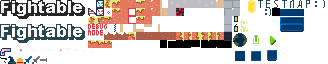
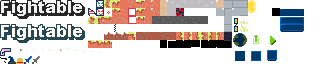
light sources

diff --git a/src/client/block/id.c b/src/client/block/id.c
@@ -2,7 +2,7 @@
 
 #define TSET(x,y,n) .base.tile_x = x, .base.tile_y = y, .name = #n
 
-static struct fblock __blocks[] = {
+static const struct fblock __blocks[] = {
     {.base.tile_x = 40, .base.tile_y = 7, .name = "Air", .passable = 1},    // 0
     {.base.tile_x = 13, .base.tile_y = 0, .name = "Grass"},                 // 1
     {.base.tile_x = 14, .base.tile_y = 0, .name = "Grass", .metaobject=1},  // 2
@@ -31,9 +31,9 @@ static struct fblock __blocks[] = {
     {.base.tile_x = 19, .base.tile_y = 1, .name = "Dirt", .parent_id=22},   // 25
     {.base.tile_x = 14, .base.tile_y = 2, .name = "Dirt", .parent_id=19},   // 26
     {.base.tile_x = 18, .base.tile_y = 2, .name = "Dirt", .parent_id=22},   // 27
-    {.base.tile_x = 13, .base.tile_y = 4, .name = "Dirt", .metaobject=1},   // 28
-    {.base.tile_x = 14, .base.tile_y = 4, .name = "Dirt", .parent_id=28},   // 29
-    {.base.tile_x = 15, .base.tile_y = 4, .name = "Dirt", .parent_id=28},   // 30
+    {.base.tile_x = 13, .base.tile_y = 4, .name = "Dirt", .metaobject=1, .passable = 1},   // 28
+    {.base.tile_x = 14, .base.tile_y = 4, .name = "Dirt", .parent_id=28, .passable = 1},   // 29
+    {.base.tile_x = 15, .base.tile_y = 4, .name = "Dirt", .parent_id=28, .passable = 1},   // 30
     {.base.tile_x = 17, .base.tile_y = 4, .name = "Dirt", .metaobject=1},   // 31
     {.base.tile_x = 18, .base.tile_y = 4, .name = "Dirt", .parent_id=31},   // 32
     {.base.tile_x = 19, .base.tile_y = 4, .name = "Dirt", .parent_id=31},   // 33
@@ -50,7 +50,31 @@ static struct fblock __blocks[] = {
     {TSET(24, 0,Stone), .parent_id = 40},       // 44
     {TSET(25, 0,Stone), .parent_id = 40},       // 45
     {TSET(26, 0,Stone), .parent_id = 40},       // 46
-    {TSET(22, 1,Magma), .dangerous = 1}         // 47
+    {TSET(22, 1,Magma), .dangerous = 1},        // 47
+    {TSET(25, 2,BStne), .metaobject = 1},       // 48
+    {TSET(19, 2,BStne), .parent_id = 48},       // 49
+    {TSET(20, 2,BStne), .parent_id = 48},       // 50
+    {TSET(21, 2,BStne), .parent_id = 48},       // 51
+    {TSET(22, 2,BStne), .parent_id = 48},       // 52
+    {TSET(23, 2,BStne), .parent_id = 48},       // 53
+    {TSET(24, 2,BStne), .parent_id = 48},       // 54
+    {TSET(20, 1,Planks)},                       // 55
+    {TSET(20, 0,Planks)},                       // 56
+    {TSET(27, 0,Planks)},                       // 57
+    {TSET(28, 2,Aspht)},                        // 58
+    {TSET(28, 0,Aspht)},                        // 59
+    {TSET(29, 0,Aspht)},                        // 60
+    {TSET(30, 0,Aspht)},                        // 61
+    {TSET(27, 1,Aspht)},                        // 62
+    {TSET(28, 1,Aspht)},                        // 63
+    {TSET(29, 1,Aspht)},                        // 64
+    {TSET(30, 1,Aspht)},                        // 65
+    {TSET(28, 3,Aspht)},                        // 66
+    {TSET(30, 3,Bush), .metaobject = 1},        // 67
+    {TSET(30, 2,Bush), .parent_id = 67},        // 68
+    {TSET(14, 3,Chain)},                        // 69
+    {TSET(29, 3,Lamp), .light_level = 127},     // 70
+    {TSET(29, 2,Lamp), .light_level = 127}      // 71
 };
 
 struct fblock _fBlockFromId(unsigned short id) {

diff --git a/src/client/level/draw.c b/src/client/level/draw.c
@@ -6,6 +6,7 @@
 #include <fightable/block.h>
 #include <fightable/entity.h>
 #include <fightable/color.h>
+#include <fightable/sanitizer.h>
 #include <stdio.h>
 #include <math.h>
 
@@ -178,6 +179,19 @@ void _fLevelDraw(struct flevel *level, IVector2 initial_pos) {
             col.a = (unsigned char)(255.f * (1.f / player->max_damage_colddown) * player->damage_colddown * 0.85f);
 
             DrawRectangleLines(_x, _y, tx, ty, col);
+        }
+        if (obj.light_level != 0) {
+            double sz = (sinl(__state.time * 1.05f) + 1.f) / 2.f;
+
+            Color col = WHITE;
+            col.a = obj.light_level;
+            
+            int cx = _x + (tx / 2);
+            int cy = _y + (ty / 2);
+
+            BeginBlendMode(BLEND_ADDITIVE);
+            DrawCircleGradient(cx, cy, sz * tx * 2, col, BLANK);
+            EndBlendMode();
         }
 
         level->objects_rendered++;

diff --git a/src/client/inc/fightable/block.h b/src/client/inc/fightable/block.h
@@ -11,15 +11,19 @@ extern "C" {
 
 struct fblock {
     struct frendered_object base;
-    const char *name;
 
-    unsigned short parent_id;
+    unsigned char light_level;
+
+    const char *name;
 
     unsigned char is_start_pos : 1;
     unsigned char singular : 1;
     unsigned char passable : 1;
     unsigned char metaobject : 1;
     unsigned char dangerous : 1;
+
+    unsigned short group_id;
+    unsigned short parent_id;
 };
 
 #pragma pack(pop)
